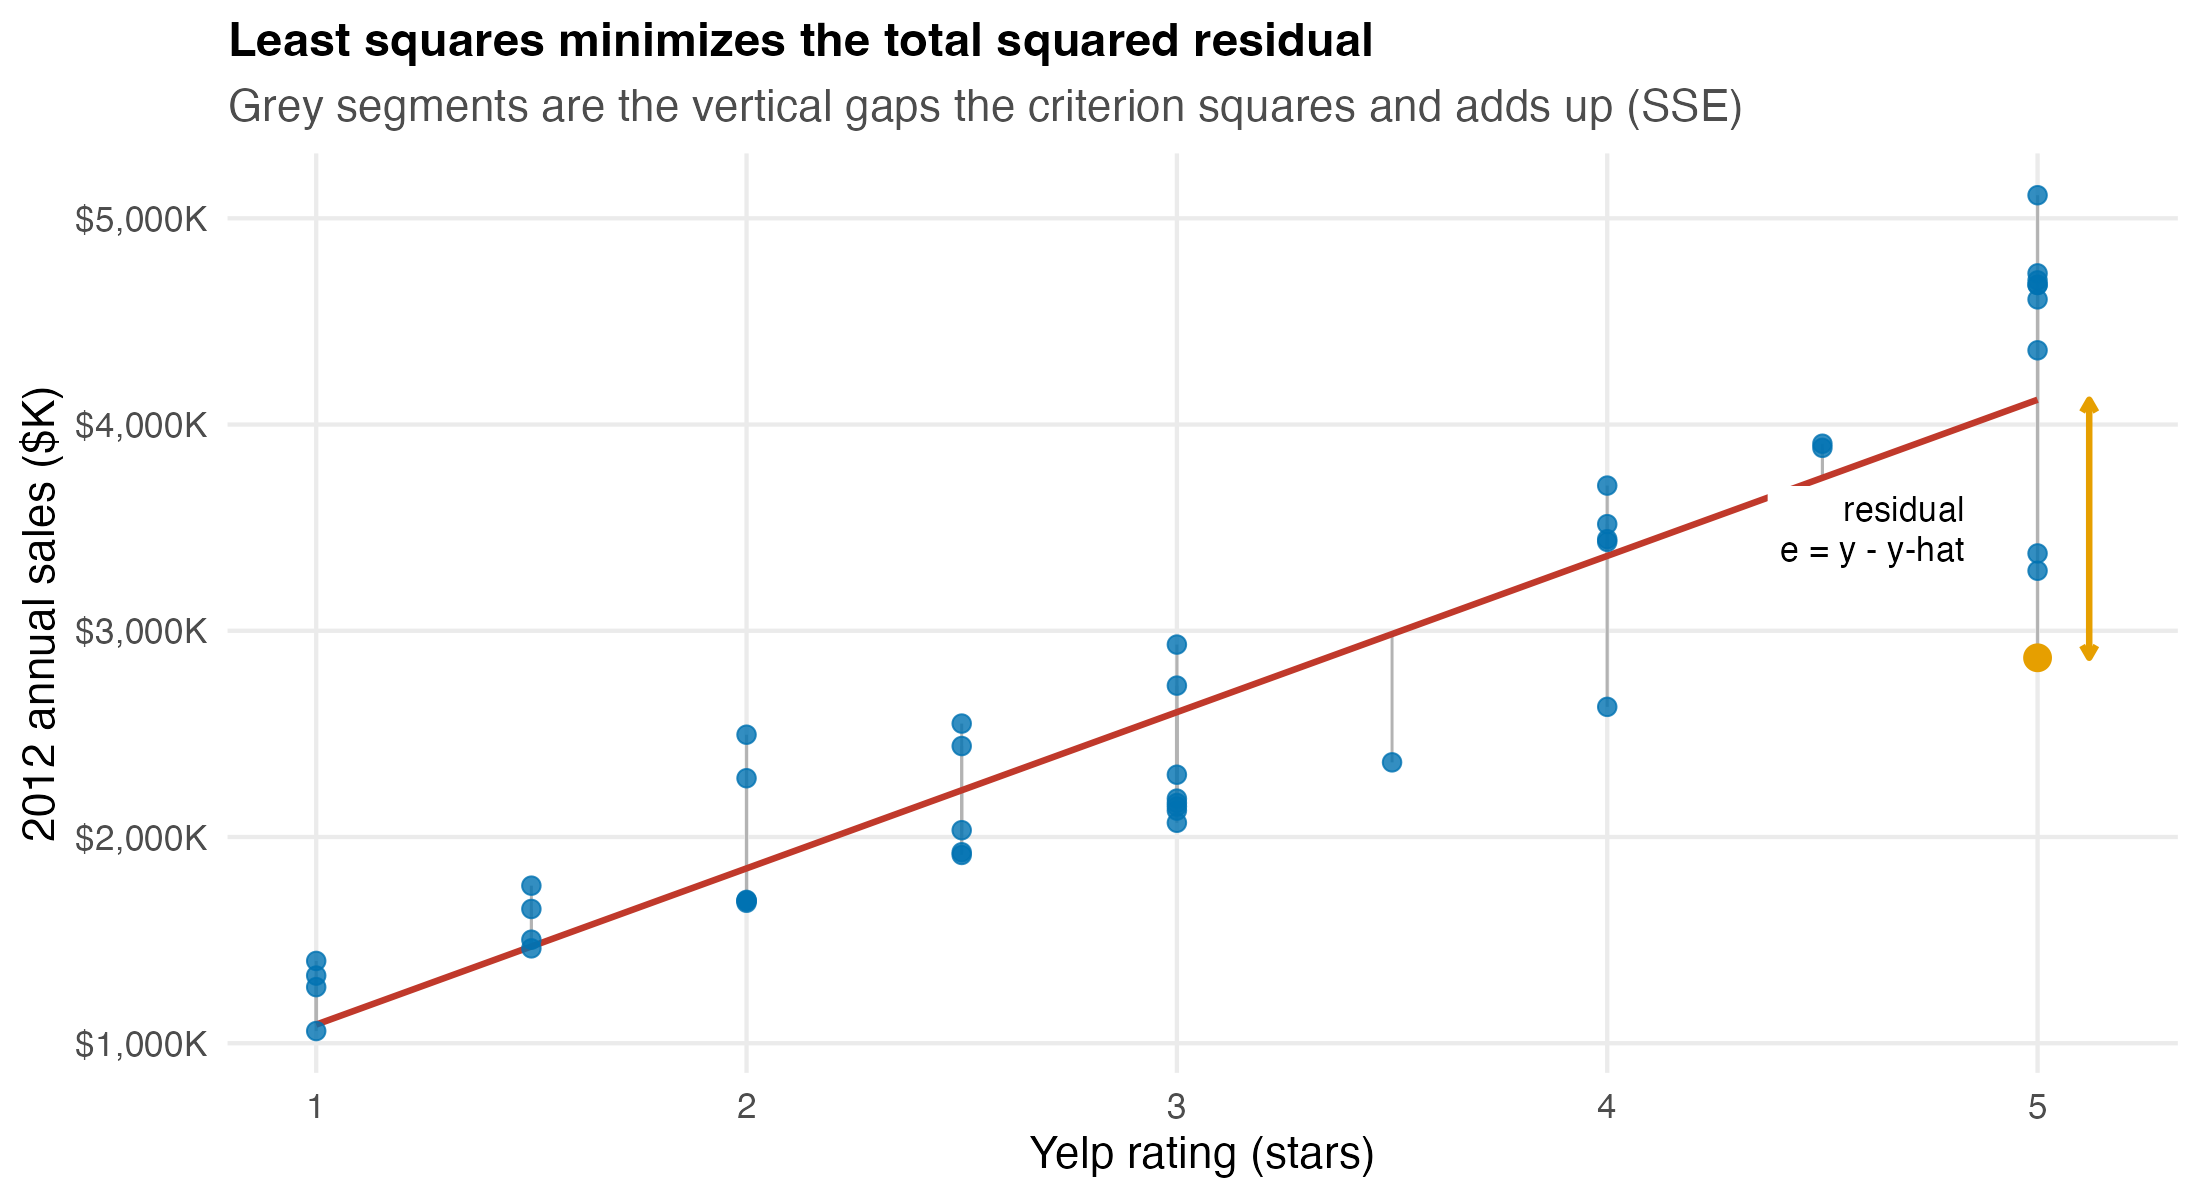
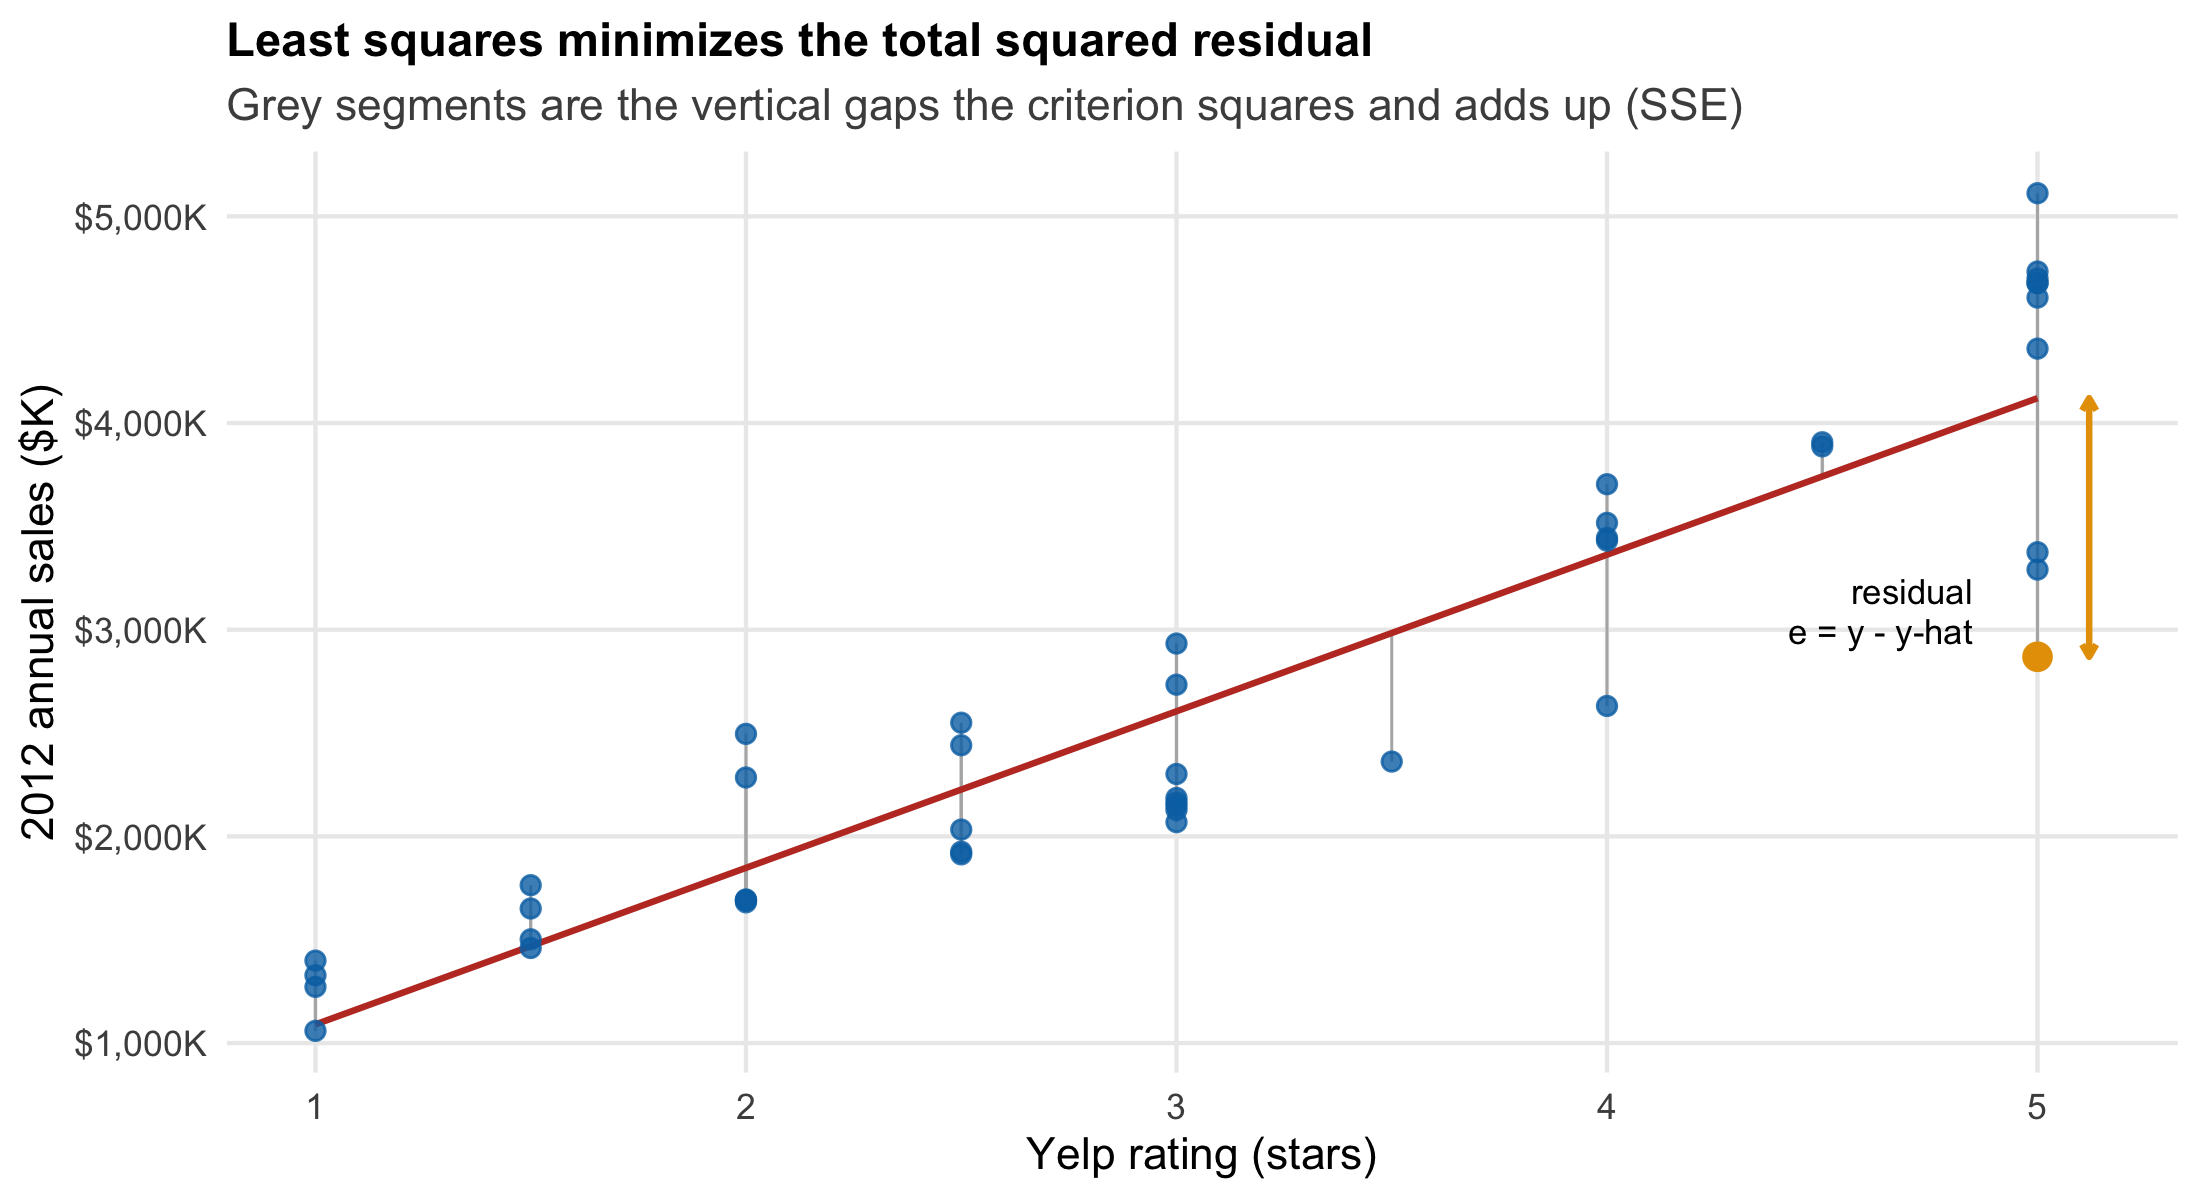
T10 (Simple Regression) revision: model framing, prediction baseline, drop Armand's
Per Davi's review pass on T10:
- Slide 5 (The Brief): drop "Today's question," lead-ins; fix the case question
  to "where should the next store go?" (per the decision-question ladder,
  "next dollar" is T11's punchline) and retitle to "Which Sites Will Sell?"
  to avoid duplicating slide 4's title.
- Lecture 1 Brief: "your group will" -> "you will".
- New slide "What Is a Model?" (accommodated from the MGMT305 source): George
  Box, model = useful simplification, prediction vs. explanation.
- New slide "R^2 Compares the Line to Guessing the Average": frames R^2 as
  model-vs-baseline (predict the mean ybar -> SST; RMSE $1,114K vs $453K), and
  explains R^2 = 0 means no better than the average. Also noted on the R^2 intro.
- Residual-concept figure (slide 18): moved the "residual" label below the
  fitted line so it no longer overlaps; switched annotate(label)->text to drop
  the R 4.6 label-border artifact (source R script updated to match).
- Removed the Armand's Pizza anchor entirely (3 slides + the studio-runs
  mention) to keep the focus on the auto-parts business case.
Lecture guide synced (Armand's demo steps removed, new slides noted). Gates
green (0 HARD voice, 0 em dashes); deck 62 -> 60 slides; re-rendered.

diff --git a/docs/lecture_slides/10_chapter_simple_regression/10_chapter_simple_regression.html b/docs/lecture_slides/10_chapter_simple_regression/10_chapter_simple_regression.html
@@ -183,25 +183,25 @@ Professor<br>Davi Moreira<br>
 <li class="fragment"><p>Until now we <em>compared</em> two groups. Now we <em>predict</em> a number, and that is what <strong>regression</strong> does.</p></li>
 </ul>
 </section>
-<section id="the-brief-where-should-the-next-dollar-go" class="slide level2 center">
-<h2>The Brief: Where Should the Next Dollar Go?</h2>
+<section id="the-brief-which-sites-will-sell" class="slide level2 center">
+<h2>The Brief: Which Sites Will Sell?</h2>
 <p><br></p>
 <ul>
-<li class="fragment"><strong>The manager’s big call (we land it across Topics 10–11):</strong> <em>where should the next dollar go?</em> Every new lease commits capital, so the manager wants sales forecast before signing.</li>
+<li class="fragment"><strong>The manager’s big call (we land it across Topics 10–11):</strong> <em>where should the next store go?</em> Every new lease commits capital, so the manager wants a sales forecast before signing.</li>
 </ul>
 <div class="fragment">
 <ul>
-<li><strong>Today’s question, Lecture 1:</strong> <em>does one driver, a store’s Yelp rating, predict its annual sales?</em></li>
-</ul>
-</div>
-<div class="fragment">
-<ul>
-<li><strong>Today’s question, Lecture 2:</strong> <em>is that slope real, and can we forecast a brand-new site?</em></li>
+<li><strong>Lecture 1:</strong> <em>does one driver, a store’s Yelp rating, predict its annual sales?</em></li>
 </ul>
 </div>
 <div class="fragment">
 <ul>
-<li><strong>How the studio runs:</strong> I demo each step on a textbook anchor (<strong>Armand’s Pizza</strong>) and on the auto-parts data, then <strong>your group</strong> reproduces the model, stress-tests it, and makes the site call.</li>
+<li><strong>Lecture 2:</strong> <em>is that slope real, and can we forecast a brand-new site?</em></li>
+</ul>
+</div>
+<div class="fragment">
+<ul>
+<li><strong>How the studio runs:</strong> I demo each step live on the auto-parts data, then <strong>your group</strong> reproduces the model, stress-tests it, and makes the site call.</li>
 </ul>
 </div>
 </section>
@@ -239,6 +239,49 @@ Professor<br>Davi Moreira<br>
 <li class="fragment"><p>Regression develops an <strong>equation</strong> showing how a <strong>dependent variable</strong> <span class="math inline">\(y\)</span> (what we predict, sales) relates to an <strong>independent variable</strong> <span class="math inline">\(x\)</span> (the predictor, Yelp rating).</p></li>
 <li class="fragment"><p><strong>Simple</strong> linear regression uses <strong>one</strong> predictor; the relationship is approximated by a <strong>straight line</strong>. (More predictors → multiple regression, next topic.)</p></li>
 </ul>
+</section>
+<section id="what-is-a-model" class="slide level2 center">
+<h2>What Is a Model?</h2>
+<p><br></p>
+<blockquote>
+<p>“All models are wrong, but some are useful.” (George Box)</p>
+</blockquote>
+<p><br></p>
+<ul>
+<li class="fragment"><p>A model is a deliberate <strong>simplification</strong>. A subway map throws away the streets and still gets you across town; our line throws away everything about a store except its Yelp rating, and is still useful for the call.</p></li>
+<li class="fragment"><p>Modeling data serves two goals, and it pays to know which one you are after:</p></li>
+</ul>
+<div class="fragment">
+<table class="caption-top">
+<colgroup>
+<col style="width: 33%">
+<col style="width: 33%">
+<col style="width: 33%">
+</colgroup>
+<thead>
+<tr class="header">
+<th>Goal</th>
+<th>The question it answers</th>
+<th>This topic</th>
+</tr>
+</thead>
+<tbody>
+<tr class="odd">
+<td><strong>Prediction</strong></td>
+<td>Use <span class="math inline">\(x\)</span> to forecast <span class="math inline">\(y\)</span> for a new case</td>
+<td><strong>Our focus:</strong> forecast a site’s sales</td>
+</tr>
+<tr class="even">
+<td><strong>Explanation</strong></td>
+<td>Does <span class="math inline">\(x\)</span> actually <em>drive</em> <span class="math inline">\(y\)</span>?</td>
+<td>Handle with care (the causation caveats)</td>
+</tr>
+</tbody>
+</table>
+</div>
+<ul>
+<li class="fragment">We build the line to <strong>predict</strong> store sales; we stay honest about whether it also <strong>explains</strong> them.</li>
+</ul>
 </section></section>
 <section>
 <section id="lecture-1-the-model-least-squares-and-r2" class="title-slide slide level1 center" data-background-color="#cfb991">
@@ -253,7 +296,7 @@ Professor<br>Davi Moreira<br>
 </blockquote>
 <p><br></p>
 <ul>
-<li class="fragment"><p>By the end of Lecture 1 <strong>your group</strong> will have a fitted equation, a dollars-per-star interpretation, and an <span class="math inline">\(R^2\)</span>: the raw material for a site score.</p></li>
+<li class="fragment"><p>By the end of Lecture 1 <strong>you</strong> will have a fitted equation, a dollars-per-star interpretation, and an <span class="math inline">\(R^2\)</span>: the raw material for a site score.</p></li>
 <li class="fragment"><p>The manager’s decision it feeds: <strong>rank prospective sites</strong> by predicted sales.</p></li>
 </ul>
 </section>
@@ -386,55 +429,6 @@ b_0 = \bar{y} - b_1 \bar{x}
 <li>Each grey segment is one residual <span class="math inline">\(e_i\)</span>. Least squares is the unique line that makes the <strong>sum of those squared lengths</strong> as small as possible.</li>
 </ul>
 </section>
-<section id="anchor-example-armands-pizza-parlors" class="slide level2 center">
-<h2>Anchor Example: Armand’s Pizza Parlors</h2>
-<div class="r-fit-text">
-<p>A classic: <strong>Armand’s Pizza</strong> has 10 restaurants near college campuses. Sales clearly depend on how many students live nearby. <span class="math inline">\(x\)</span> = student population in the trade area (1,000s); <span class="math inline">\(y\)</span> = quarterly sales ($1,000s).</p>
-<table class="caption-top">
-<thead>
-<tr class="header">
-<th></th>
-<th style="text-align: right;">Student population <span class="math inline">\(x\)</span> (000s)</th>
-<th style="text-align: right;">Quarterly sales <span class="math inline">\(y\)</span> ($000s)</th>
-</tr>
-</thead>
-<tbody>
-<tr class="odd">
-<td>Restaurant 1</td>
-<td style="text-align: right;">2</td>
-<td style="text-align: right;">58</td>
-</tr>
-<tr class="even">
-<td>Restaurant 2</td>
-<td style="text-align: right;">6</td>
-<td style="text-align: right;">105</td>
-</tr>
-<tr class="odd">
-<td><span class="math inline">\(\vdots\)</span></td>
-<td style="text-align: right;"><span class="math inline">\(\vdots\)</span></td>
-<td style="text-align: right;"><span class="math inline">\(\vdots\)</span></td>
-</tr>
-<tr class="even">
-<td>Restaurant 10</td>
-<td style="text-align: right;">26</td>
-<td style="text-align: right;">202</td>
-</tr>
-</tbody>
-</table>
-<p><strong>Least-squares fit:</strong> <span class="math inline">\(\bar{x} = 14\)</span>, <span class="math inline">\(\bar{y} = 130\)</span>, and the slope/intercept formulas give</p>
-<p><span class="math display">\[
-b_1 = 5, \qquad b_0 = 60 \qquad\Rightarrow\qquad \hat{y} = 60 + 5x
-\]</span></p>
-</div>
-</section>
-<section id="armands-reading-the-line" class="slide level2 center">
-<h2>Armand’s: Reading the Line</h2>
-
-<img data-src="figs/armands_fit.png" class="quarto-figure quarto-figure-center r-stretch" style="width:58.0%"><ul>
-<li><strong>Slope <span class="math inline">\(b_1 = 5\)</span>:</strong> each additional <strong>1,000 students</strong> in the trade area is associated with <strong>$5,000</strong> more quarterly sales.</li>
-<li><strong>Intercept <span class="math inline">\(b_0 = 60\)</span>:</strong> the line’s height at <span class="math inline">\(x = 0\)</span>, outside the data range, so read it as a fitting constant, not “sales with zero students.”</li>
-</ul>
-</section>
 <section id="the-auto-parts-fit" class="slide level2 center">
 <h2>The Auto-Parts Fit</h2>
 
@@ -484,7 +478,7 @@ R^2 = \frac{\text{SSR}}{\text{SST}} = 1 - \frac{\text{SSE}}{\text{SST}}, \qquad 
 \]</span></p>
 </div>
 <ul>
-<li class="fragment"><span class="math inline">\(R^2 = 0\)</span>: the line explains nothing. <span class="math inline">\(R^2 = 1\)</span>: every point sits exactly on the line.</li>
+<li class="fragment"><span class="math inline">\(R^2 = 0\)</span>: the line explains nothing, no better than just guessing the average <span class="math inline">\(\bar{y}\)</span>. <span class="math inline">\(R^2 = 1\)</span>: every point sits exactly on the line.</li>
 </ul>
 </section>
 <section id="r2-for-the-auto-parts-model" class="slide level2 center">
@@ -525,6 +519,37 @@ R^2 = \frac{\text{SSR}}{\text{SST}} = 1 - \frac{\text{SSE}}{\text{SST}}, \qquad 
 <li class="fragment"><p><strong>Interpretation:</strong> Yelp rating alone explains <strong>83.4%</strong> of the store-to-store variation in annual sales, strong for a single predictor.</p></li>
 <li class="fragment"><p>The remaining <strong>16.6%</strong> is everything else (location, merchandising, competition). <em>That gap is exactly what motivates adding more predictors next topic.</em></p></li>
 <li class="fragment"><p>In Excel: <code>=RSQ(sales, yelp)</code> or read <strong>R Square</strong> off the Regression output.</p></li>
+</ul>
+</section>
+<section id="r2-compares-the-line-to-guessing-the-average" class="slide level2 center">
+<h2><span class="math inline">\(R^2\)</span> Compares the Line to Guessing the Average</h2>
+<p><br></p>
+<ul>
+<li class="fragment"><p><strong>The baseline (no model):</strong> with no line, your best single guess for any store is the overall average, <span class="math inline">\(\bar{y} = \$2{,}706\text{K}\)</span>. The squared error that baseline leaves is exactly <strong>SST</strong>.</p></li>
+<li class="fragment"><p>The line’s leftover error is <strong>SSE</strong>, so <span class="math inline">\(R^2 = 1 - \text{SSE}/\text{SST}\)</span> is the <strong>share of the baseline’s error the line removes</strong>.</p></li>
+</ul>
+<div class="fragment">
+<table class="caption-top">
+<thead>
+<tr class="header">
+<th>Predict every store with…</th>
+<th style="text-align: right;">Typical miss (RMSE)</th>
+</tr>
+</thead>
+<tbody>
+<tr class="odd">
+<td>the average <span class="math inline">\(\bar{y}\)</span> (no model)</td>
+<td style="text-align: right;"><span class="math inline">\(\approx \$1{,}114\text{K}\)</span></td>
+</tr>
+<tr class="even">
+<td>the Yelp-rating line</td>
+<td style="text-align: right;"><span class="math inline">\(\approx \$453\text{K}\)</span></td>
+</tr>
+</tbody>
+</table>
+</div>
+<ul>
+<li class="fragment">So <strong><span class="math inline">\(R^2 = 0\)</span></strong> means the line is <strong>no better than the average</strong> (SSE = SST, a flat line at <span class="math inline">\(\bar{y}\)</span>); <strong><span class="math inline">\(R^2 = 1\)</span></strong> means every store sits on the line. Auto-parts lands at <strong>0.834</strong>: the line erases <strong>83%</strong> of the error you would make by guessing the average.</li>
 </ul>
 </section>
 <section id="r2-and-correlation-are-the-same-story" class="slide level2 center">
@@ -703,30 +728,6 @@ t = \frac{b_1 - 0}{s_{b_1}}, \qquad s_{b_1} = \frac{s}{\sqrt{\sum (x_i - \bar{x}
 <ul>
 <li class="fragment">Same logic as every test since Topic 8: a statistic, a <span class="math inline">\(t\)</span> distribution, a <span class="math inline">\(p\)</span>-value, a decision.</li>
 </ul>
-</section>
-<section id="anchor-armands-slope-is-significant" class="slide level2 center">
-<h2>Anchor: Armand’s Slope Is Significant</h2>
-<div class="columns">
-<div class="column" style="width:40%;">
-<p><br></p>
-<p>For Armand’s Pizza:</p>
-<p><span class="math display">\[
-t = \frac{5}{0.580} = 8.62, \quad df = 8
-\]</span></p>
-<p><span class="math inline">\(p\text{-value} \approx 0.000 \le 0.05\)</span> → <strong>reject <span class="math inline">\(H_0\)</span></strong>.</p>
-<p><br></p>
-<p>Student population is a <strong>significant</strong> predictor of restaurant sales: the slope is not zero.</p>
-</div><div class="column" style="width:60%;">
-<div class="cell" data-layout-align="center">
-<div class="cell-output-display">
-<div class="quarto-figure quarto-figure-center">
-<figure>
-<p><img data-src="figs/armands_reg_coef.png" class="quarto-figure quarto-figure-center" style="width:100.0%"></p>
-</figure>
-</div>
-</div>
-</div>
-</div></div>
 </section>
 <section id="the-auto-parts-slope-test" class="slide level2 center">
 <h2>The Auto-Parts Slope Test</h2>